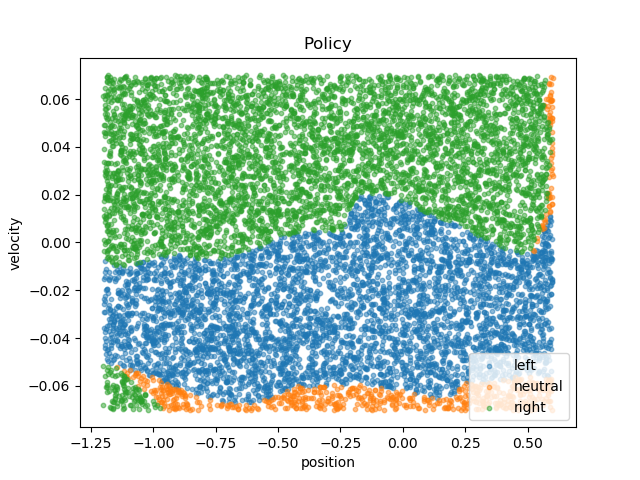
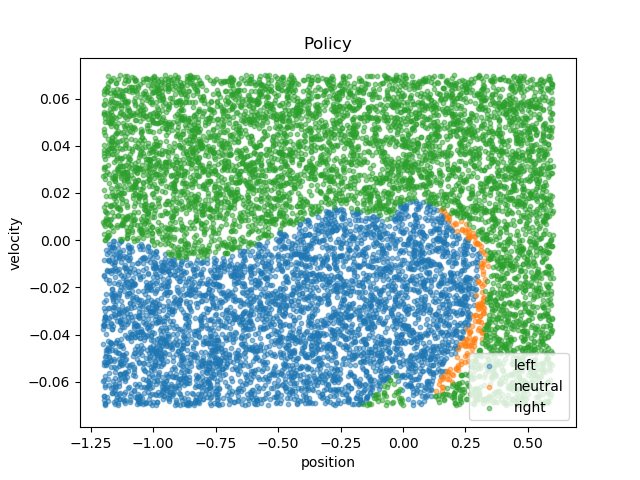
DQN decay finished

diff --git a/A4/A4.py b/A4/A4.py
@@ -4,6 +4,7 @@ import pandas as pd
 from collections import namedtuple
 from itertools import count
 import random
+import math
 import gym
 import torch
 import torch.nn as nn
@@ -32,9 +33,10 @@ class Enviroment:
         if done:
             reward = 1000
         else:
-            reward = self.height(state[0]) + state[1]
+            #reward = self.height(state[0]) + state[1]
+            reward = self.height(state[0])
             if state[0] > self.env.goal_position - 0.1 and state[1] > 0.0:
-                reward += 45.0 * state[0] - 12.5
+                reward += 1.0
         return state, reward, done, info
     
     def height(self, xs):
@@ -79,7 +81,10 @@ class Agent:
         self.actionSpace = [i for i in range(self.actionNum)]
         self.stateSize = observationSpace.shape[0]
         self.gamma = gamma
-        self.epsilon = epsilon
+        self.epsilon = epsilon[0]
+        self.EPS_START = epsilon[0]
+        self.EPS_END = epsilon[1]
+        self.EPS_DECAY = epsilon[2]
         self.batchSize = batchSize
         self.lr = lr
         self.hiddenSize = hiddenSize
@@ -99,6 +104,12 @@ class Agent:
             with torch.no_grad():
                 return self.net(state).max(1)[1].view(1, 1)
     
+    def epsilonDecay(self, N):
+        self.epsilon = self.EPS_END + (self.EPS_START - self.EPS_END) * math.exp(-1.0 * N / self.EPS_DECAY)
+        # if N >= 10000:
+            # self.epsilon = self.EPS_END + (self.EPS_START - self.EPS_END) * math.exp(-1.0 * (N - 10000) / self.EPS_DECAY)
+
+
     def optimzeDQN(self, buf):
         if len(buf) < self.batchSize:
             print("Can't fetch enough exp!")
@@ -119,22 +130,17 @@ class Agent:
         self.optimizer.zero_grad()
         loss.backward()
         self.optimizer.step()
+        return loss.item()
 
-    def preExplore(self, env, buf, preExploreTime):
-        self.targetNet.load_state_dict(self.net.state_dict())
-        for i in range(preExploreTime):
-            self.optimzeDQN(buf)
-            if i % self.updateStride == 0:
-                self.targetNet.load_state_dict(self.net.state_dict())
-
-    def DeepQLearning(self, env, buf, episodeNum, preExploreTime):
-        # self.preExplore(env, buf, preExploreTime)
+    def DeepQLearning(self, env, buf, episodeNum, ifDecay=True):
         totalN = 0
         scores = []
         steps = []
+        losses = []
         self.targetNet.load_state_dict(self.net.state_dict())
         for i in range(episodeNum):
             score = 0.0
+            rewardDecay = 1.0
             state = env.reset()
             for t in count():
                 env.render()
@@ -146,19 +152,24 @@ class Agent:
                           torch.tensor(nextState.reshape(1, self.stateSize), device=device, dtype=torch.float),
                           torch.tensor([[not done]], device=device, dtype=torch.long))
                 state = nextState
-                score += reward
-                self.optimzeDQN(buf)
+                score += rewardDecay * reward
+                rewardDecay *= self.gamma
+                loss = self.optimzeDQN(buf)
+                losses.append(loss)
+                if ifDecay:
+                    self.epsilonDecay(totalN)
                 totalN += 1
                 if totalN % self.updateStride == 0:
                     self.targetNet.load_state_dict(self.net.state_dict())
                 if done or t + 1 >= env.max_episode_steps:
                     scores.append(score)
                     steps.append(t + 1)
-                    print("Episode %d ended after %d timesteps with score %f" % (i + 1, t + 1, score))
+                    print("Episode %d ended after %d timesteps with score %f, epsilon=%f" % (i + 1, t + 1, score, self.epsilon))
                     break
         
         np.save('DQN_score', scores)
         np.save('DQN_step', steps)
+        np.save('DQN_loss',losses)
         torch.save(self.net.state_dict(), 'net.pkl')
         torch.save(self.targetNet.state_dict(), 'targetNet.pkl')
 
@@ -222,10 +233,13 @@ def draw(episodeNum, methodName, suffix, filterSize):
     loose_range = []
     scores = np.load(methodName + '_score.npy')
     steps = np.load(methodName + '_step.npy')
+    losses = np.load(methodName + '_loss.npy')
     for i in range(0, episodeNum, filterSize):
         scores_filtered.append(np.mean(scores[i: i + filterSize]))
         steps_filtered.append(np.mean(steps[i: i + filterSize]))
         loose_range.append(i + filterSize / 2)
+    np.save('smooth_score', scores_filtered)
+    np.save('smooth_step', steps_filtered)
     plt.figure()
     plt.plot(ep_range, scores, alpha=0.8)
     plt.plot(loose_range, scores_filtered)
@@ -240,29 +254,35 @@ def draw(episodeNum, methodName, suffix, filterSize):
     plt.xlabel('episode')
     plt.ylabel('step')
     plt.savefig('step')
+    plt.figure()
+    plt.plot(losses)
+    plt.title('MountainCar')
+    plt.xlabel('time')
+    plt.ylabel('loss')
+    plt.savefig('loss')
 
-    # data = []
-    # net = DQN(2, 256, 3)
-    # net.load_state_dict(torch.load('net' + suffix + '.pkl'))
-    # for i in range(10000):
-    #     data.append(torch.tensor([[np.random.uniform(-1.2, 0.6), np.random.uniform(-0.07, 0.07)]], dtype=torch.float))
-    # data = torch.cat(data)
-    # with torch.no_grad():
-    #     label = net(data).max(1)[1].view(-1).numpy()
-    # data = pd.DataFrame(data.numpy(), columns=['x', 'y'])
-    # label = pd.DataFrame(label, columns=['label'])
-    # colors = [plt.cm.tab10(i / float(4.0)) for i in range(4)]
-    # data = pd.concat([data, label], axis=1)
+    data = []
+    net = DQN(2, 256, 3)
+    net.load_state_dict(torch.load('net' + suffix + '.pkl'))
+    for i in range(10000):
+        data.append(torch.tensor([[np.random.uniform(-1.2, 0.6), np.random.uniform(-0.07, 0.07)]], dtype=torch.float))
+    data = torch.cat(data)
+    with torch.no_grad():
+        label = net(data).max(1)[1].view(-1).numpy()
+    data = pd.DataFrame(data.numpy(), columns=['x', 'y'])
+    label = pd.DataFrame(label, columns=['label'])
+    colors = [plt.cm.tab10(i / float(4.0)) for i in range(4)]
+    data = pd.concat([data, label], axis=1)
 
-    # actionName = ['left', 'neutral', 'right']
-    # plt.figure()
-    # for i in range(3):
-    #     plt.scatter(data.loc[data.label == i].x, data.loc[data.label == i].y, s=10, label=actionName[i], cmap=colors[i], alpha=0.5)
-    # plt.title('Policy')
-    # plt.legend()
-    # plt.xlabel('position')
-    # plt.ylabel('velocity')
-    # plt.savefig(methodName + '_policy')
+    actionName = ['left', 'neutral', 'right']
+    plt.figure()
+    for i in range(3):
+        plt.scatter(data.loc[data.label == i].x, data.loc[data.label == i].y, s=10, label=actionName[i], cmap=colors[i], alpha=0.5)
+    plt.title('Policy')
+    plt.legend()
+    plt.xlabel('position')
+    plt.ylabel('velocity')
+    plt.savefig(methodName + '_policy')
     
 def main():
     env = Enviroment(maxSteps=500)
@@ -271,12 +291,13 @@ def main():
     agt = Agent(env.getActionSpace(),
                 env.getObservationSpace(),
                 gamma=0.99,
-                epsilon=0.2,
+                epsilon=[0.1, None, None],
+                # epsilon=[0.9, 0.1, 10000],
                 batchSize=128,
                 lr=0.0001,
                 hiddenSize=256,
                 updateStride=5)
-    # agt.DeepQLearning(env, buf, episodeNum=1000, preExploreTime=1000)
+    agt.DeepQLearning(env, buf, episodeNum=1000, ifDecay=False)
     draw(1000, 'DQN', '', 50)
     env.close()
 
